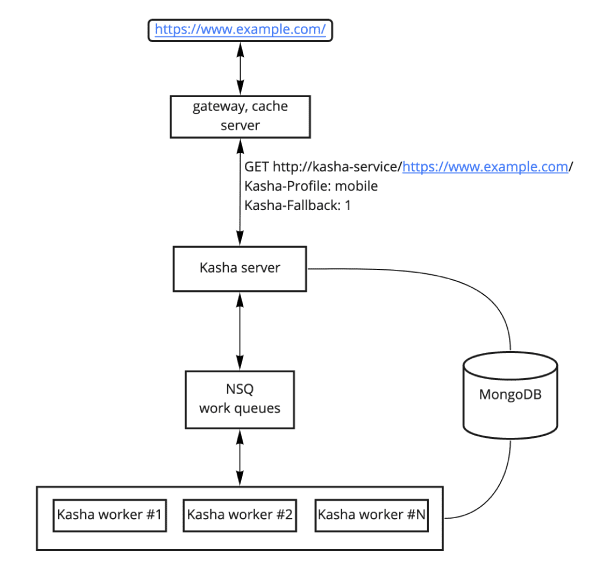
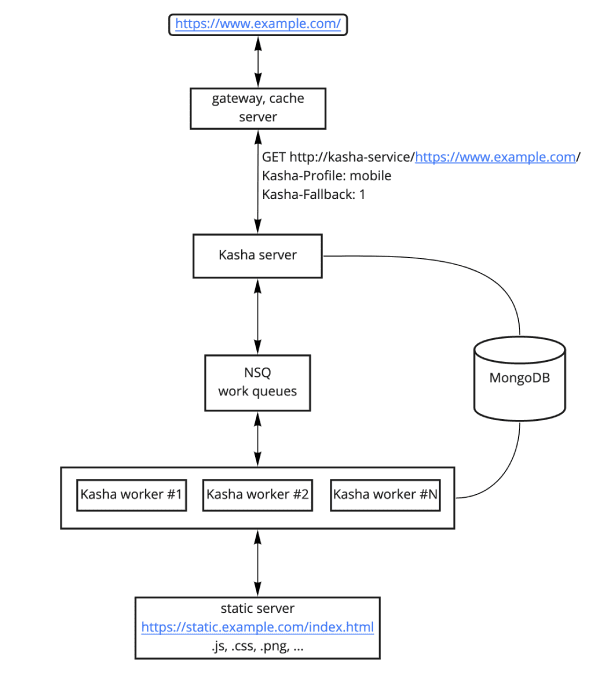
edit workflow picture

diff --git a/README.md b/README.md
@@ -110,10 +110,10 @@ db.sites.insert({
     // pattern syntax see https://github.com/jiangfengming/url-router#pattern
 
     // route all requests to the entry point HTML file
-    ['https://www.example.com/(.*)', 'https://cdn.example.com/index.html'],
+    ['https://www.example.com/(.*)', 'https://static.example.com/index.html'],
 
     // except robots.txt
-    ['https://www.example.com/robots.txt', 'https://cdn.example.com/robots.txt'],
+    ['https://www.example.com/robots.txt', 'https://static.example.com/robots.txt'],
 
     // or block it if you do not have one
     // ['https://www.example.com/robots.txt', ''],
@@ -145,7 +145,7 @@ db.sites.insert({
       rewrites: [
         [
           'https://www.example.com/(.*)',
-          'https://cdn.example.com/desktop/index.html'
+          'https://static.example.com/desktop/index.html'
         ]
       ]
     },
@@ -155,7 +155,7 @@ db.sites.insert({
       rewrites: [
         [
           'https://www.example.com/(.*)',
-          'https://cdn.example.com/mobile/index.html'
+          'https://static.example.com/mobile/index.html'
         ]
       ]
     }
